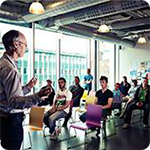
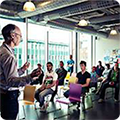
Förminskat bilderna igen

diff --git a/Pfi2Project15/src/se/mah/k3/pfi2/project/news/NewsPanel.java b/Pfi2Project15/src/se/mah/k3/pfi2/project/news/NewsPanel.java
@@ -79,7 +79,7 @@ public class NewsPanel extends JPanel implements ModuleInterface{
 				
 				JLabel lblNewLabel = new JLabel("New label");
 				lblNewLabel.setIcon(new ImageIcon(NewsPanel.class.getResource("/Images/Forelashing.png")));
-				lblNewLabel.setBounds(65, 22, 180, 178);
+				lblNewLabel.setBounds(63, 62, 155, 150);
 				panel2.add(lblNewLabel);
 				
 				
